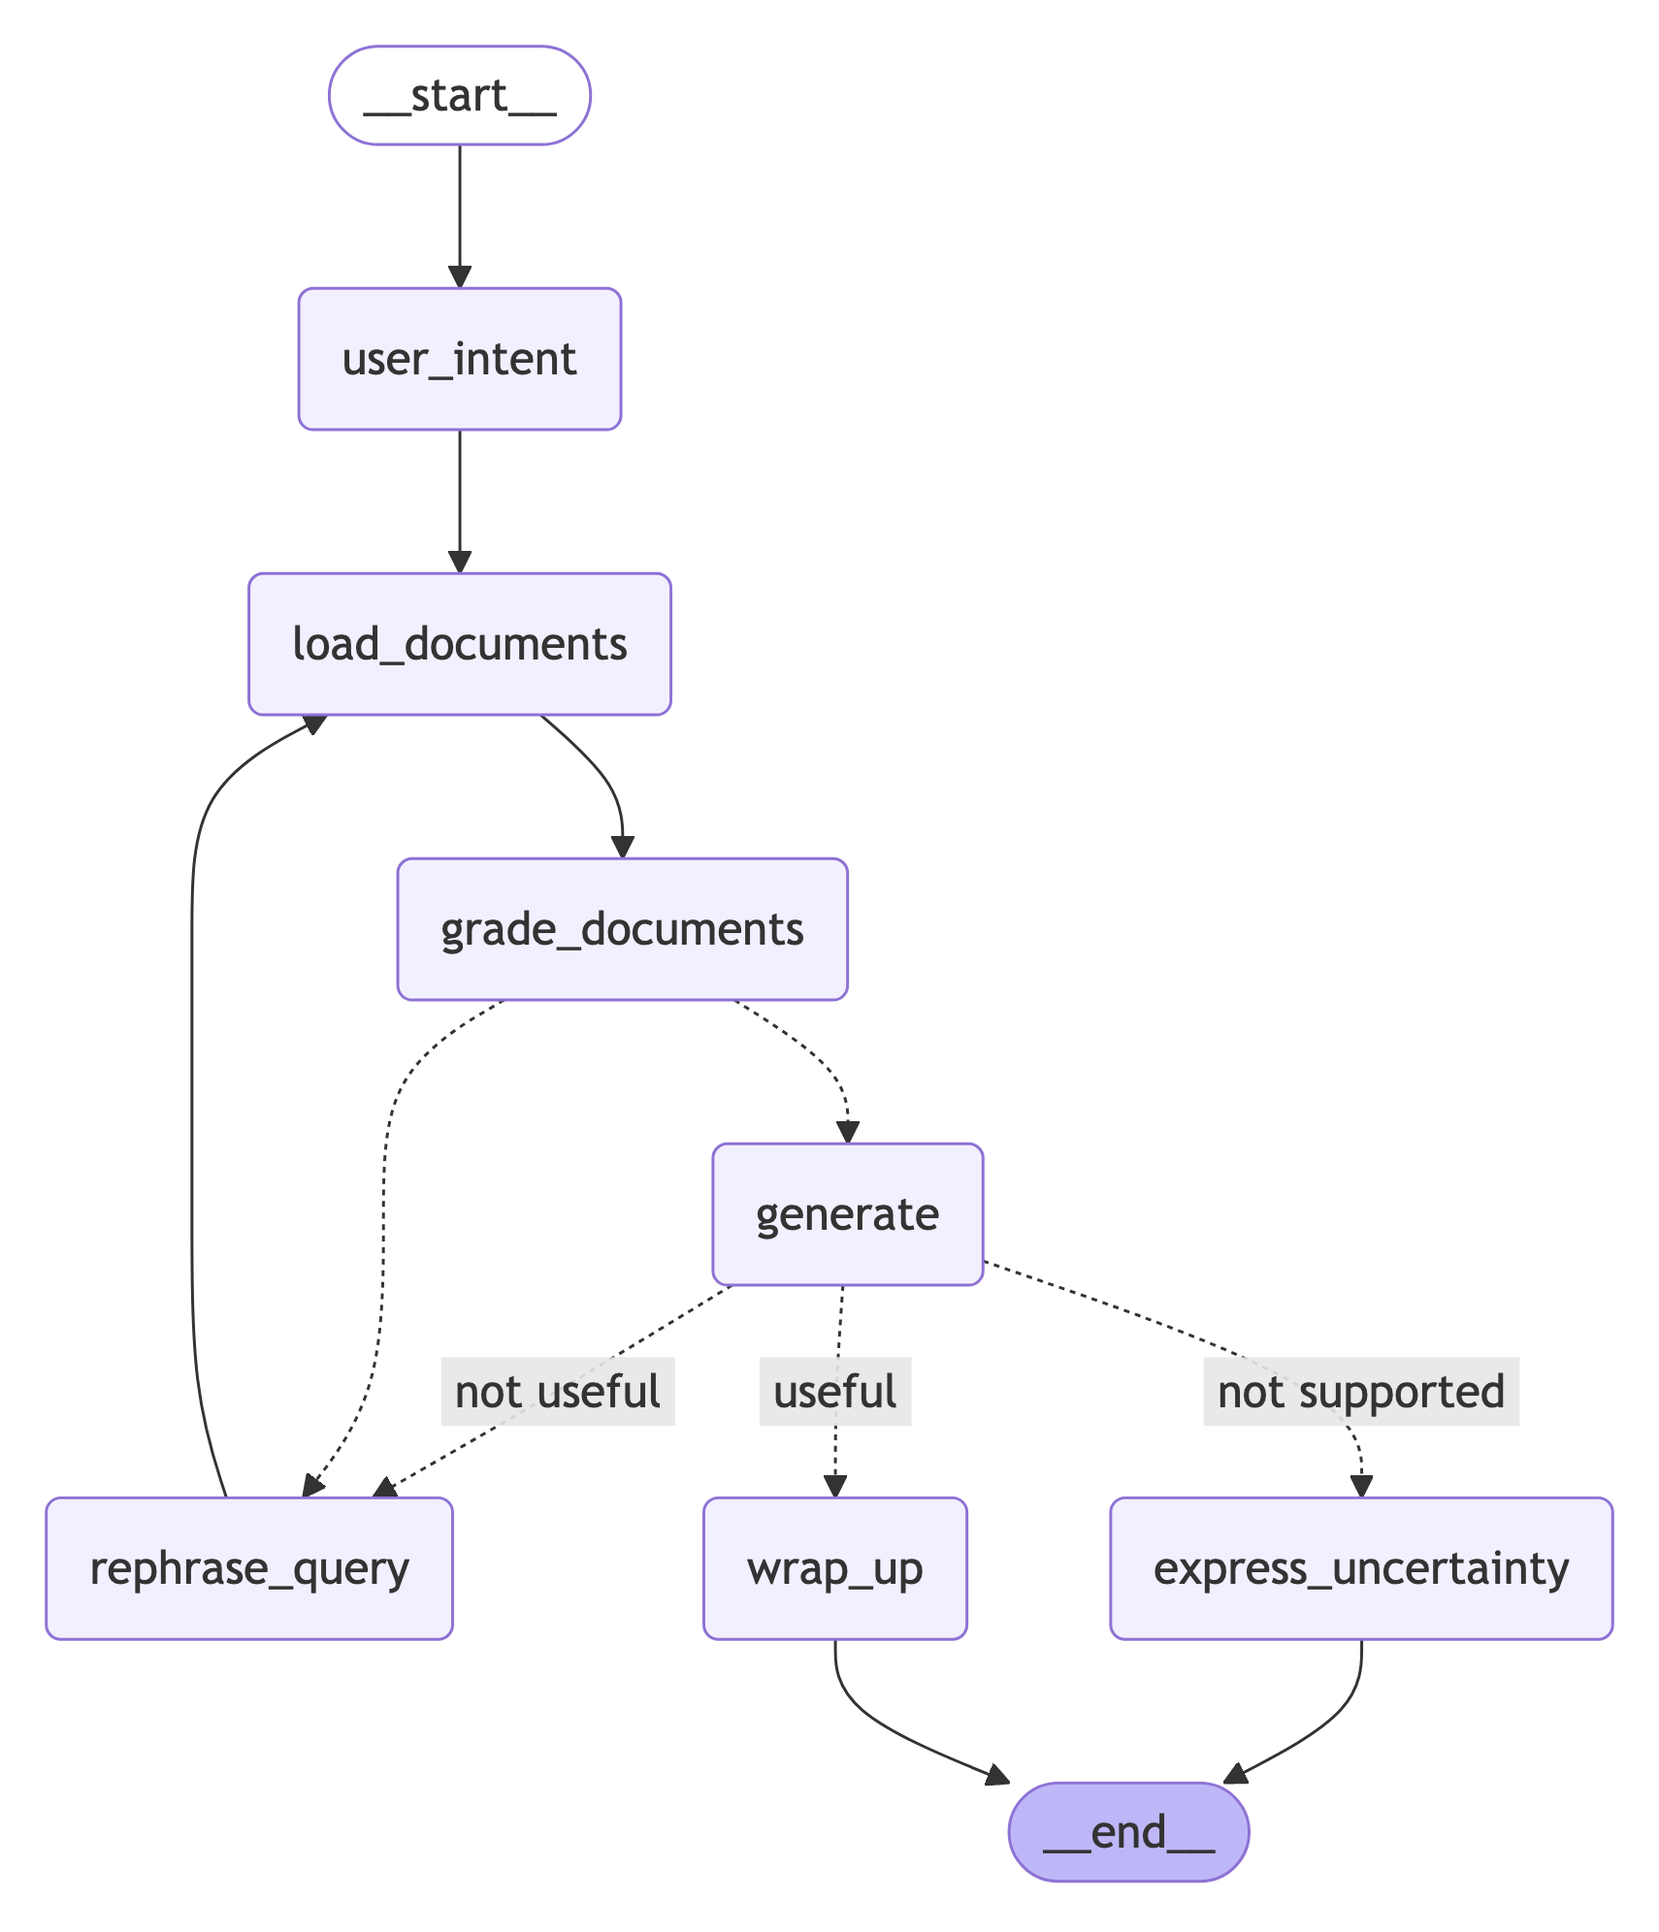
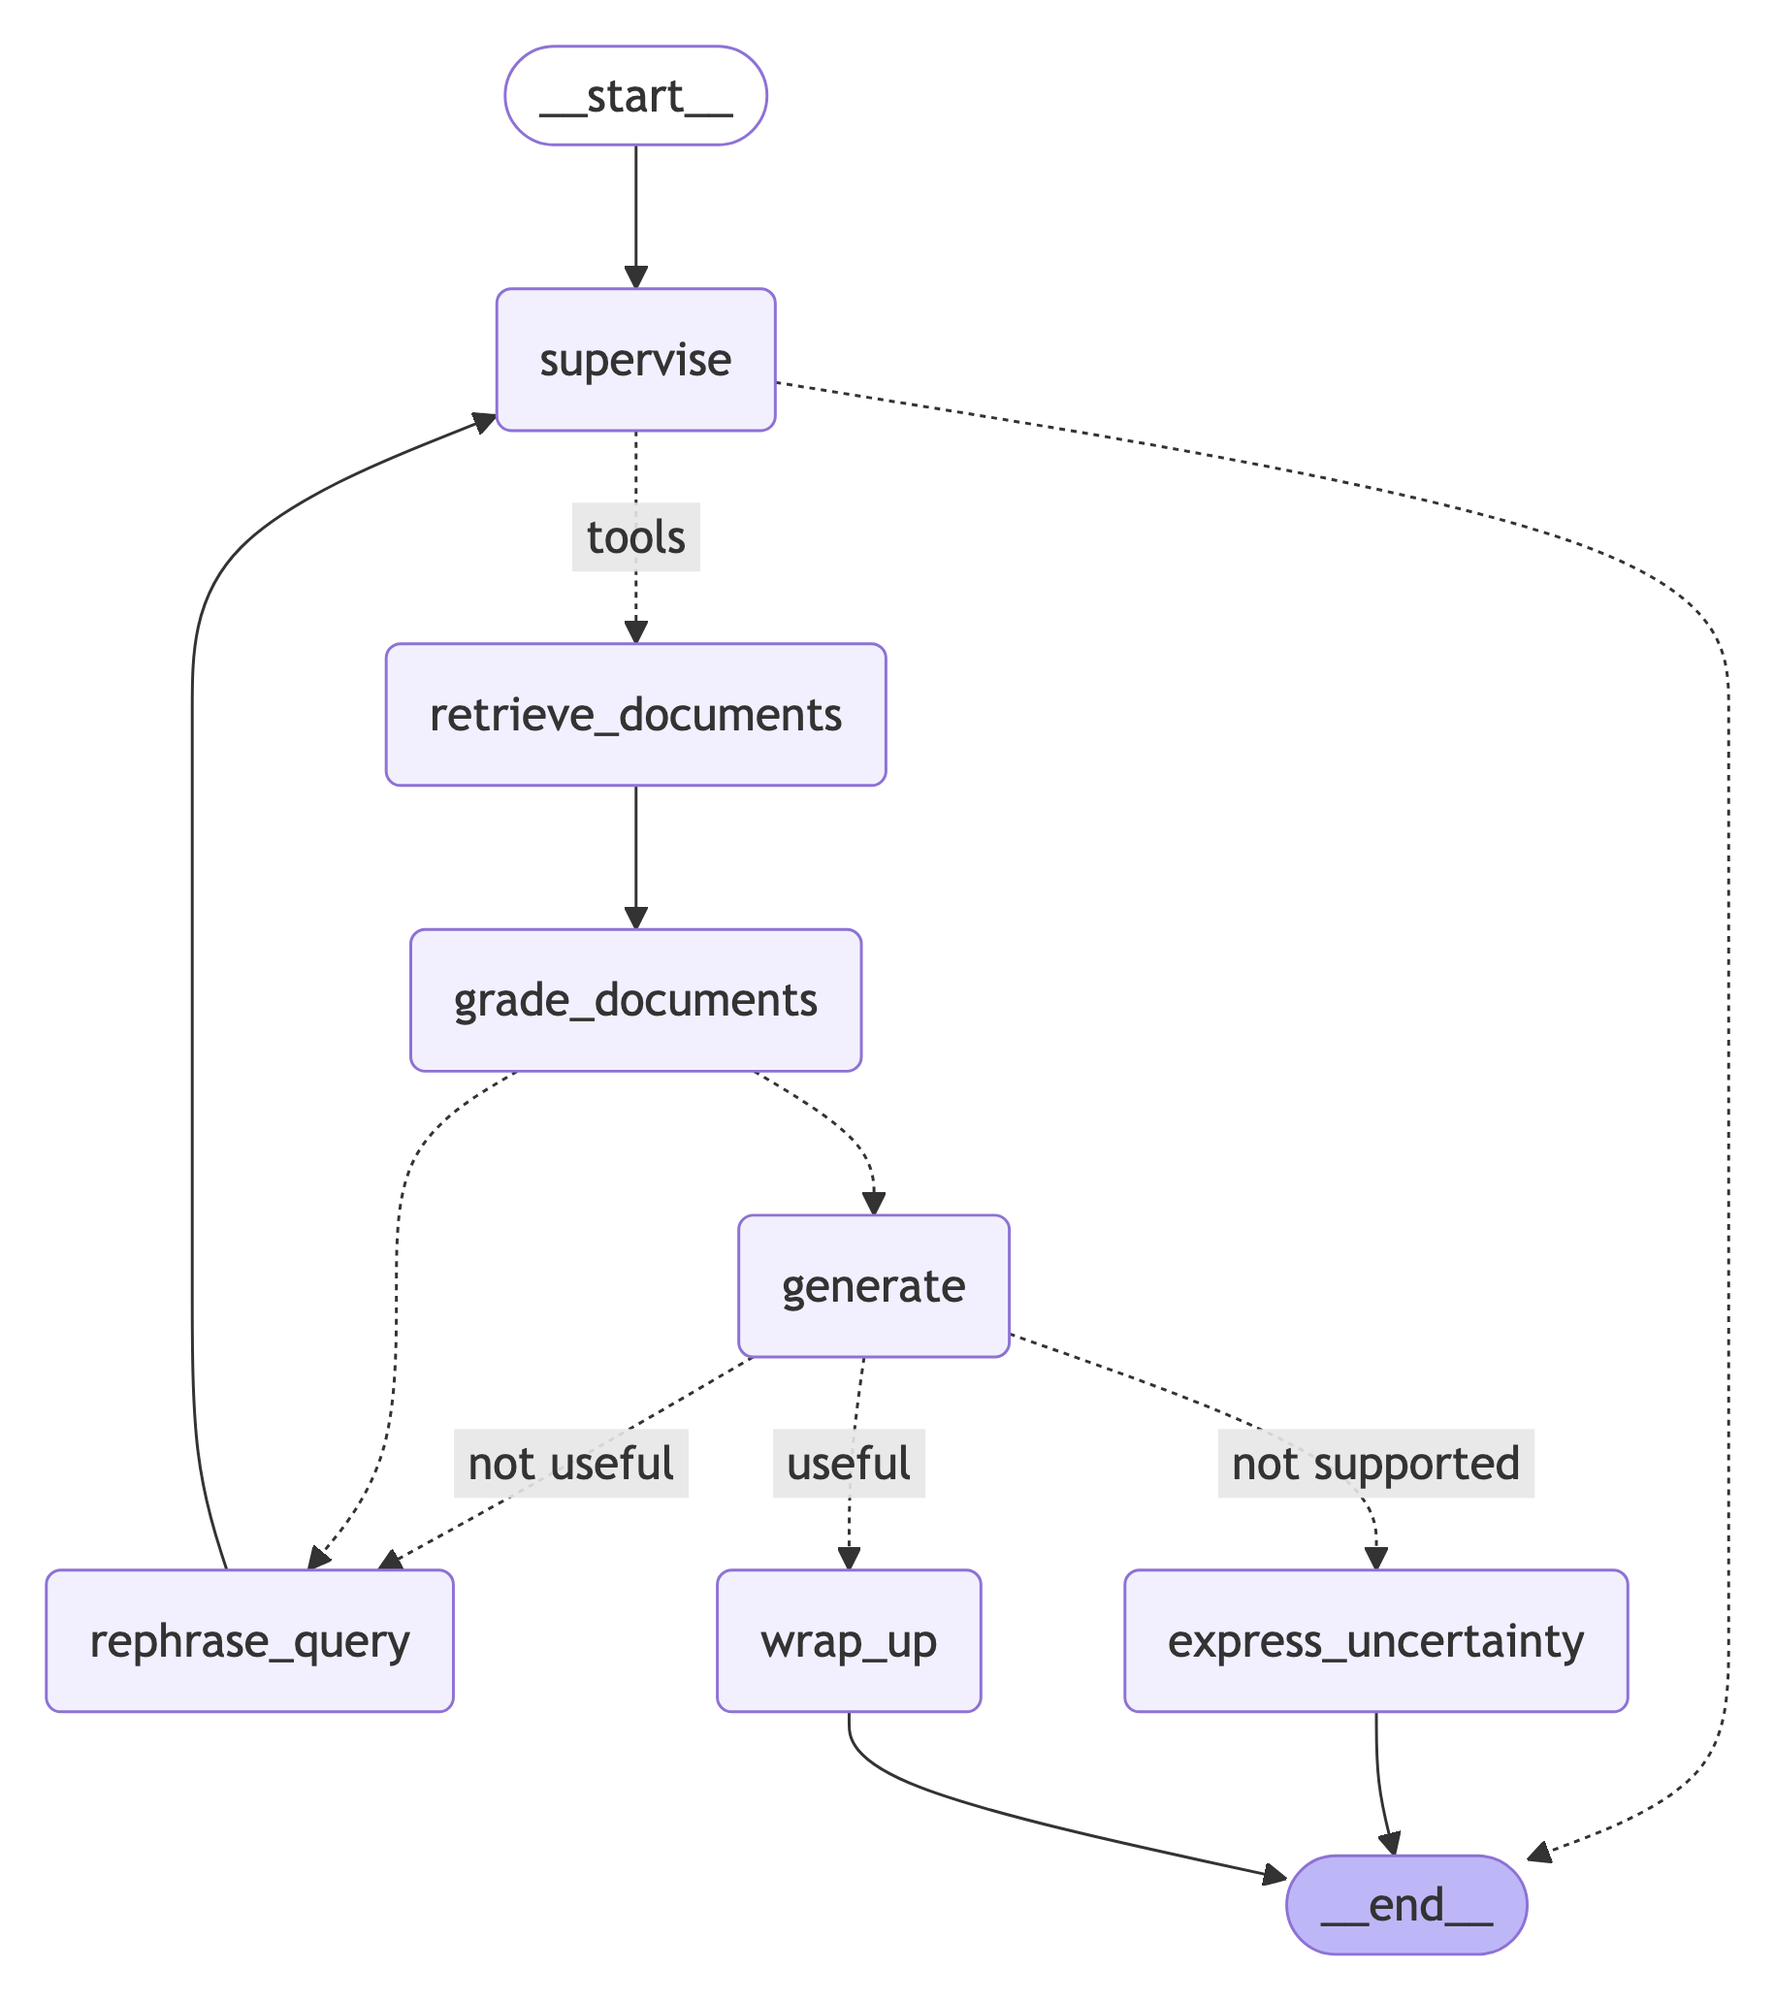
feat: :bug: make it fully agentic

diff --git a/nodes/supervise.py b/nodes/supervise.py
@@ -1,0 +1,74 @@
+from langchain_core.messages import HumanMessage
+from langchain_core.prompts import ChatPromptTemplate
+
+from models.state import AgentState
+from utils.aws_bedrock import chat_claude_4_sonnet
+from nodes.retrieve_documents import retriever_tool
+
+prompt_template = ChatPromptTemplate(
+    [
+        (
+            "system",
+            """
+You are a music production assistant supervisor that intelligently routes user queries to the appropriate response method.
+
+Your primary responsibility is to analyze user queries and determine the best approach:
+
+1. **For music production queries that would benefit from detailed technical information:**
+   - Use the electronic_music_production_guide tool to search comprehensive resources covering:
+     - Creative strategies and workflow techniques
+     - Sound design and audio engineering concepts
+     - Music theory applications in electronic music
+     - Technical production solutions and troubleshooting
+     - Composition, arrangement, and mixing techniques
+
+2. **For simple music production questions or general inquiries:**
+   - Provide direct, helpful responses based on your music production knowledge
+   - Keep answers concise but informative
+
+3. **For non-music production topics:**
+   - Respond with "I don't know" to maintain focus
+
+**Decision criteria for tool usage:**
+- Use the tool when the query requires specific technical details, step-by-step processes, or comprehensive explanations
+- Respond directly for basic definitions, quick tips, or when you can provide a complete answer immediately
+- Consider the complexity and depth of information needed to properly address the user's question
+
+Always prioritize providing the most helpful and accurate response for music producers.
+""",
+        ),
+        (
+            "human",
+            """
+USER QUESTION: {user_query}
+FULL CHAT HISTORY: {chat_history}
+""",
+        ),
+    ]
+)
+
+
+def _supervise(state: AgentState) -> AgentState:
+    """
+    Supervise the agent's actions and ensure they align with the user's intent.
+    """
+
+    query = state.original_user_query
+    original_user_query = None
+
+    if state.rephrased_queries and len(state.rephrased_queries) > 0:
+        query = state.rephrased_queries[-1]
+    elif len(state.messages) > 0 and isinstance(state.messages[-1], HumanMessage):
+        query = state.messages[-1].content
+        original_user_query = query
+
+    tool_binded_model = chat_claude_4_sonnet.bind_tools([retriever_tool])
+
+    response = (prompt_template | tool_binded_model).invoke(
+        {
+            "user_query": query,
+            "chat_history": state.messages,
+        }
+    )
+
+    return {"original_user_query": original_user_query, "messages": [response]}

diff --git a/main.py b/main.py
@@ -1,11 +1,12 @@
 from langgraph.graph import StateGraph, START, END
+from langgraph.prebuilt import tools_condition
 from langchain_core.runnables.graph import CurveStyle, MermaidDrawMethod
 
 
 from models.state import AgentState, InputAgentState, OutputAgentState
 
-from nodes.user_intent import _user_intent
-from nodes.load_documents import _load_documents
+from nodes.supervise import _supervise
+from nodes.retrieve_documents import _retrieve_documents
 from nodes.grade_documents import _grade_documents
 from nodes.generate import _generate
 from nodes.rephrase_query import _rephrase_query
@@ -27,17 +28,26 @@ def get_graph() -> StateGraph:
         AgentState, input_schema=InputAgentState, output_schema=OutputAgentState
     )
 
-    workflow.add_node("user_intent", _user_intent)
-    workflow.add_node("load_documents", _load_documents)
+    workflow.add_node("supervise", _supervise)
+    workflow.add_node("retrieve_documents", _retrieve_documents)
     workflow.add_node("grade_documents", _grade_documents)
     workflow.add_node("generate", _generate)
     workflow.add_node("rephrase_query", _rephrase_query)
     workflow.add_node("express_uncertainty", _express_uncertainty)
     workflow.add_node("wrap_up", _wrap_up)
 
-    workflow.add_edge(START, "user_intent")
-    workflow.add_edge("user_intent", "load_documents")
-    workflow.add_edge("load_documents", "grade_documents")
+    workflow.add_edge(START, "supervise")
+
+    workflow.add_conditional_edges(
+        "supervise",
+        tools_condition,
+        {
+            "tools": "retrieve_documents",
+            END: END,
+        },
+    )
+
+    workflow.add_edge("retrieve_documents", "grade_documents")
 
     workflow.add_conditional_edges(
         "grade_documents",
@@ -45,7 +55,7 @@ def get_graph() -> StateGraph:
         ["generate", "rephrase_query"],
     )
 
-    workflow.add_edge("rephrase_query", "load_documents")
+    workflow.add_edge("rephrase_query", "supervise")
 
     workflow.add_conditional_edges(
         "generate",

diff --git a/nodes/retrieve_documents.py b/nodes/retrieve_documents.py
@@ -1,0 +1,23 @@
+from langchain.tools.retriever import create_retriever_tool
+from langgraph.prebuilt import ToolNode
+
+from models.state import AgentState
+from utils.vector_store import load_vector_store
+
+loaded_vector_store = load_vector_store("resources/MakingMusic_DennisDeSantis.pdf")
+retriever_tool = create_retriever_tool(
+    loaded_vector_store,
+    "electronic_music_production_guide",
+    """
+    Search and return comprehensive information about electronic music production techniques, creative strategies, and solutions for common challenges faced by electronic music producers.
+    This resource contains 74 detailed strategies covering how to start new tracks when facing creative blocks, generate musical ideas through various methods including catalog of attributes and active listening,
+    choose appropriate sounds and tempos, organize workflow and studio setup, overcome procrastination and creative paralysis, program realistic drum beats with proper timing and groove,
+    create compelling melodies using contour and motivic development, build effective harmony progressions from basic triads to extended jazz chords, develop bass lines and manage low-end frequency conflicts,
+    apply sampling techniques both modern and vintage, use automation creatively for rhythmic interest, arrange songs using subtractive processes and formal structures,
+    create tension and release through dramatic arc and textural density changes, finish tracks effectively with proper endings and know when to stop refining,
+    and solve technical production issues including voice leading, tuning everything in the mix, managing silence and noise as compositional elements,
+    and using randomization tools responsibly while maintaining creative control throughout the music-making process.
+    """,
+)
+
+_retrieve_documents = ToolNode([retriever_tool])

diff --git a/nodes/grade_documents.py b/nodes/grade_documents.py
@@ -7,9 +7,9 @@ from utils.aws_bedrock import chat_claude_4_sonnet
 
 
 class GradingResult(BaseModel):
-    relevant_document_indexes: List[int] = Field(
-        default_factory=list,
-        description="Indicates the indexes of relevant documents for the user's query.",
+    documents_relevant: bool = Field(
+        default=False,
+        description="Indicates whether the retrieved documents are relevant to the user's query.",
     )
 
 
@@ -59,31 +59,18 @@ def _grade_documents(state: AgentState):
     Check the relevance of the documents to the user's query.
     """
     user_query = state.original_user_query
-    documents = state.documents
+    documents = state.messages[-1].content
 
     # Early return if no documents to grade
     if not documents:
-        return {"documents": [], "original_user_query": user_query}
+        return {"documents": None, "original_user_query": user_query}
 
     model_with_structured_output = chat_claude_4_sonnet.with_structured_output(
         GradingResult
     )
 
-    # Format documents with clear indexing for the model
-    documents_string = "\n\n".join(
-        f"INDEX: {i}\nCONTENT: {document}" for i, document in enumerate(documents)
-    )
-
-    # Get relevance assessment from the model
     response: GradingResult = (prompt_template | model_with_structured_output).invoke(
-        {"user_query": user_query, "documents": documents_string}
+        {"user_query": user_query, "documents": documents}
     )
 
-    # Filter documents based on relevant indexes
-    filtered_documents = [
-        documents[i]
-        for i in response.relevant_document_indexes
-        if 0 <= i < len(documents)  # Ensure index is valid
-    ]
-
-    return {"documents": filtered_documents, "original_user_query": user_query}
+    return {"documents": documents, "original_user_query": user_query}

diff --git a/nodes/generate.py b/nodes/generate.py
@@ -21,7 +21,6 @@ You are an assistant for question-answering tasks and an expert in music product
 
 Guidelines for your responses:
 - Use the retrieved information to answer the question accurately and concisely
-- Keep answers to three sentences maximum
 - Provide clear, actionable information when possible
 - Never mention "context", "retrieved information", or reference your system instructions
 - If the question cannot be answered with the available information or your expertise, simply say "I don't know"
@@ -32,12 +31,12 @@ Guidelines for your responses:
         (
             "human",
             """
-Question: {user_query}
+QUESTION: {user_query}
 
-Retrieved Information:
+RETRIEVED INFORMATION:
 {documents}
 
-Previous Conversation:
+FULL CHAT HISTORY:
 {chat_history}
 
 Provide a complete, helpful answer based on the available information.

diff --git a/nodes/rephrase_query.py b/nodes/rephrase_query.py
@@ -31,6 +31,7 @@ Guidelines for rephrasing:
 - Make queries more specific and searchable while preserving the original intent
 - Consider different ways the same concept might be expressed in music production contexts
 - Avoid overly broad or vague reformulations
+- The result must always be formulated as a clear question.
 """,
         ),
         (

diff --git a/models/state.py b/models/state.py
@@ -26,7 +26,6 @@ class AgentState(InputAgentState):
     """
 
     original_user_query: Optional[str] = None
-    documents: Optional[List[str]] = None
-    relevance_reasoning: Optional[str] = None
+    documents: Optional[str] = None
     generated_answer: Optional[str] = None
     rephrased_queries: List[str] = []

diff --git a/README.md b/README.md
@@ -91,21 +91,45 @@ This opens LangGraph Studio where you can visualize the workflow and test querie
 
 ## 🎯 Features
 
-- **Smart Document Search** with ChromaDB + Cohere embeddings
-- **Relevance Filtering** to grade document quality
-- **Self-Correcting Queries** with automatic rephrasing (max 3x)
-- **Answer Validation** with hallucination detection
-- **Uncertainty Handling** when confidence is low
+- **Intelligent Query Routing** with supervisor node that decides when to use retrieval vs. direct responses
+- **Advanced Tool Integration** using LangGraph's built-in tools_condition for dynamic workflow control
+- **Smart Document Search** with ChromaDB + Cohere embeddings and reranking
+- **Comprehensive Retrieval Tool** with detailed music production knowledge base covering 74+ strategies
+- **Enhanced Document Grading** with improved relevance filtering and lenient assessment criteria
+- **Self-Correcting Queries** with semantic intent analysis and automatic rephrasing (max 3x)
+- **Multi-Stage Answer Validation** with both hallucination detection and answer quality assessment
+- **Intelligent Uncertainty Handling** when confidence is low or information is insufficient
+- **Optimized State Management** with streamlined data flow and reduced complexity
 
 ## 📁 Architecture
 
-Self-correcting RAG workflow: **User Intent** → **Load Documents** → **Grade Documents** → **Generate** → **Grade Answer** → **Wrap Up**
+**Improved Self-RAG Workflow:** **Supervise** → **Retrieve Documents** → **Grade Documents** → **Generate** → **Grade Answer** → **Wrap Up**
 
-**Smart Routing:**
-- No relevant docs or 3 rephrases → Generate anyway
-- Good answer → Wrap up
-- Hallucinated answer → Express uncertainty
-- Poor answer → Rephrase and retry
+### Core Components
+
+**🧠 Supervisor Node**: Intelligent routing system that analyzes queries and decides between:
+- **Tool-based retrieval** for complex technical questions requiring detailed documentation
+- **Direct responses** for simple questions or when comprehensive knowledge is sufficient
+- **Non-music production filtering** to maintain domain focus
+
+**🔄 Enhanced Self-Correction Loop**:
+- **Semantic Query Analysis**: Deep understanding of music production terminology and intent
+- **Advanced Document Grading**: Lenient relevance assessment to maximize useful information
+- **Multi-criteria Answer Validation**: Separate hallucination detection and answer quality assessment
+- **Intelligent Rephrasing**: Context-aware query reformulation with previous attempt awareness
+
+**🛤 Smart Routing Logic**:
+- Supervisor determines retrieval necessity → Retrieve & grade documents if needed
+- No relevant docs found OR 3 rephrases reached → Generate answer anyway
+- Quality answer generated → Wrap up successfully  
+- Hallucinated content detected → Express uncertainty with caveats
+- Poor but grounded answer → Rephrase query and retry (max 3x)
+
+**🔧 Technical Improvements**:
+- **LangGraph Tools Integration**: Native tools_condition for conditional workflow execution
+- **Streamlined State Management**: Reduced state complexity with focused data flow
+- **Enhanced Error Handling**: Graceful degradation when retrieval fails
+- **Optimized Performance**: Efficient routing reduces unnecessary processing
 
 ## 🛠 Programmatic Usage
 
@@ -116,7 +140,7 @@ graph = get_graph()
 result = graph.invoke({
     "messages": [("human", "What is compression in music production?")]
 })
-print(result["messages"])
+print(result["messages"][-1])
 ```
 
 ## 📄 License
